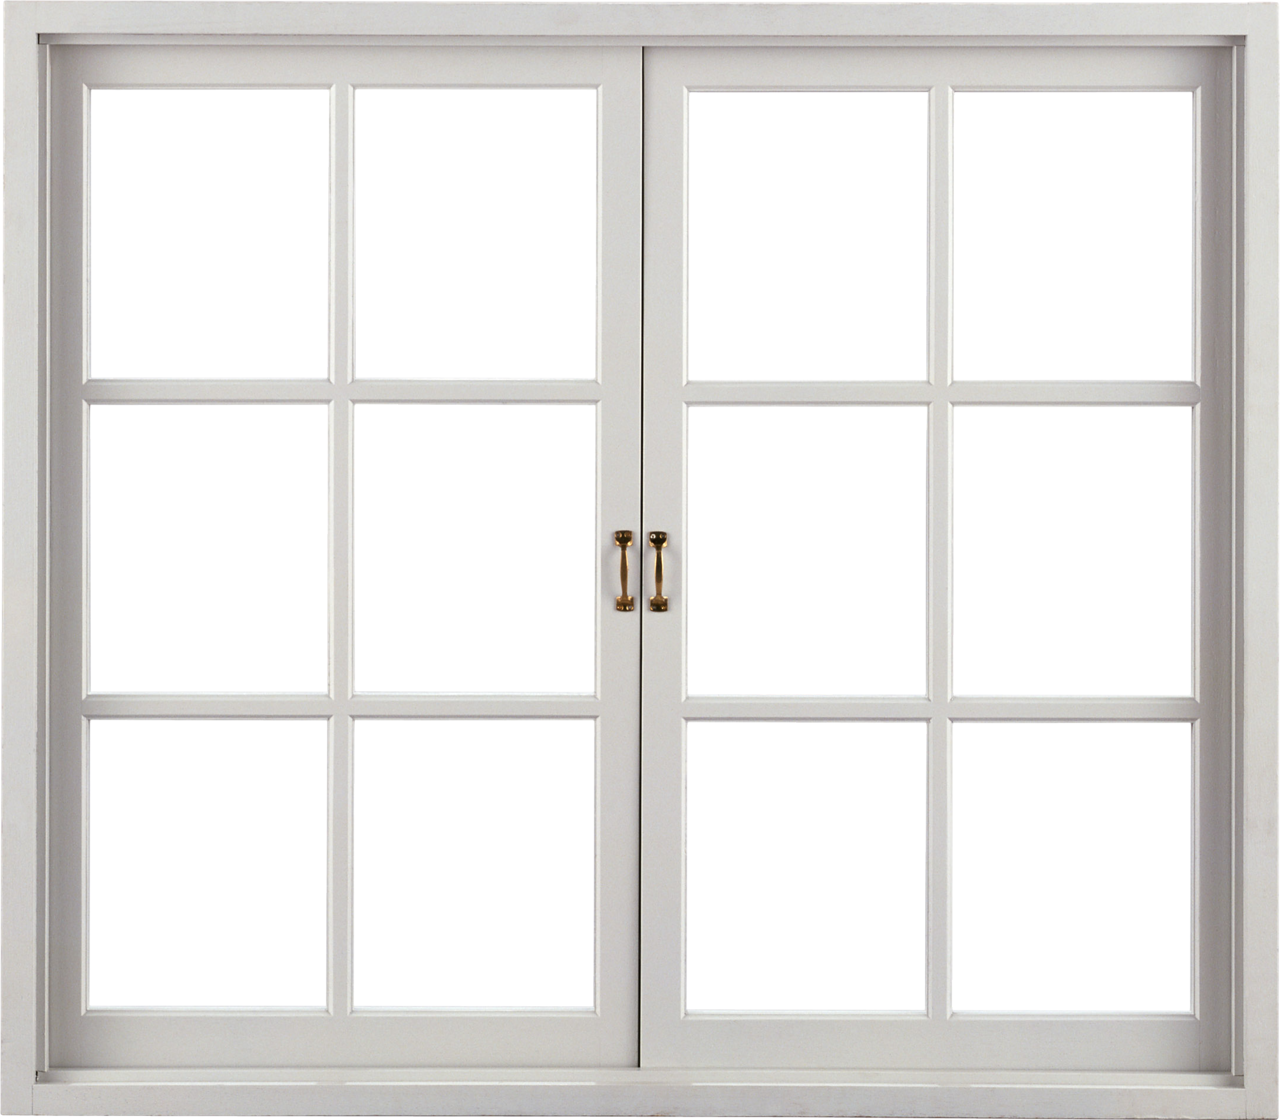
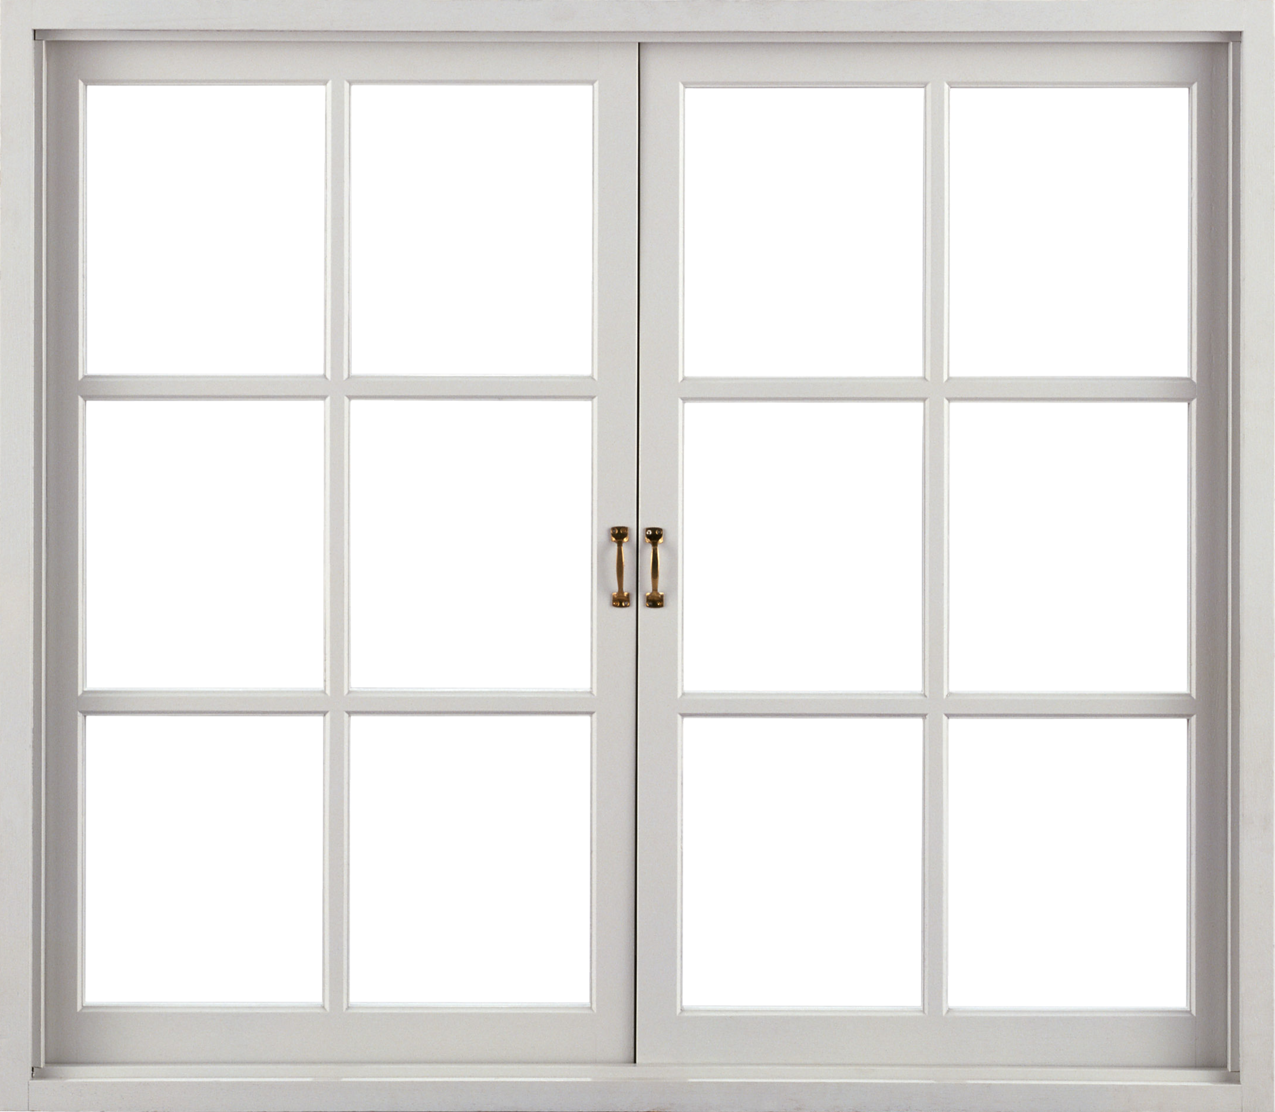
fix window image size

diff --git a/src/style.css b/src/style.css
@@ -40,13 +40,13 @@ body, html {
     position: relative;
     flex-shrink: 0;
     width: 480px;
-    height: 420px;
+    height: 418px;
 }
 
 .img-container {
     position: absolute;
     /*top: -200px;*/
-    height: 420px;
+    height: 100%;
 }
 
 #window-container {
@@ -64,7 +64,7 @@ body, html {
 }
 
 #gif-container > img {
-    height: 420px;
+    height: 100%;
     object-fit: cover;
 }
 
